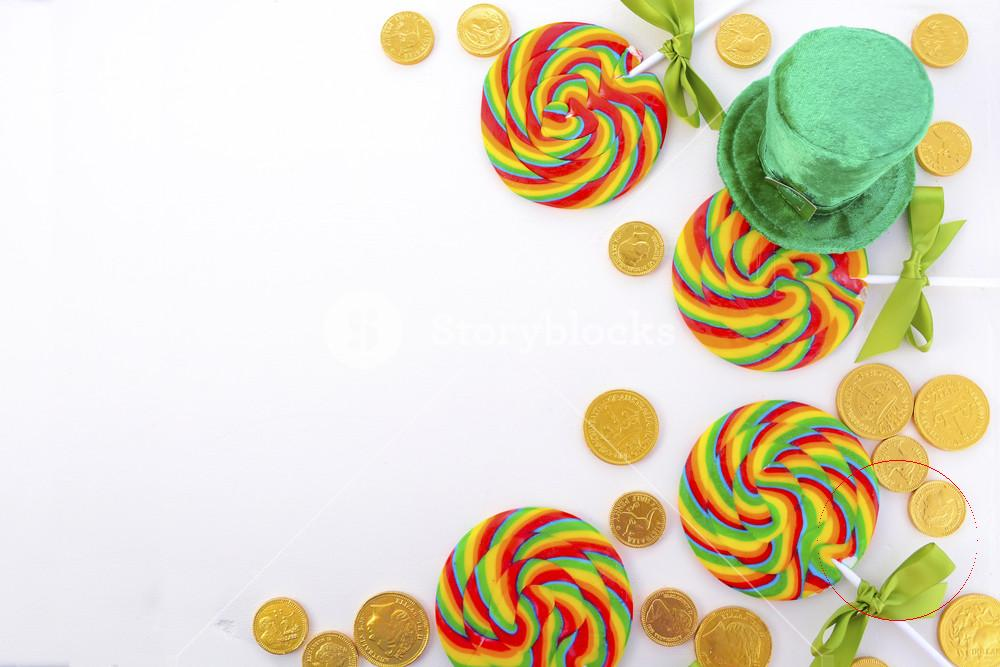
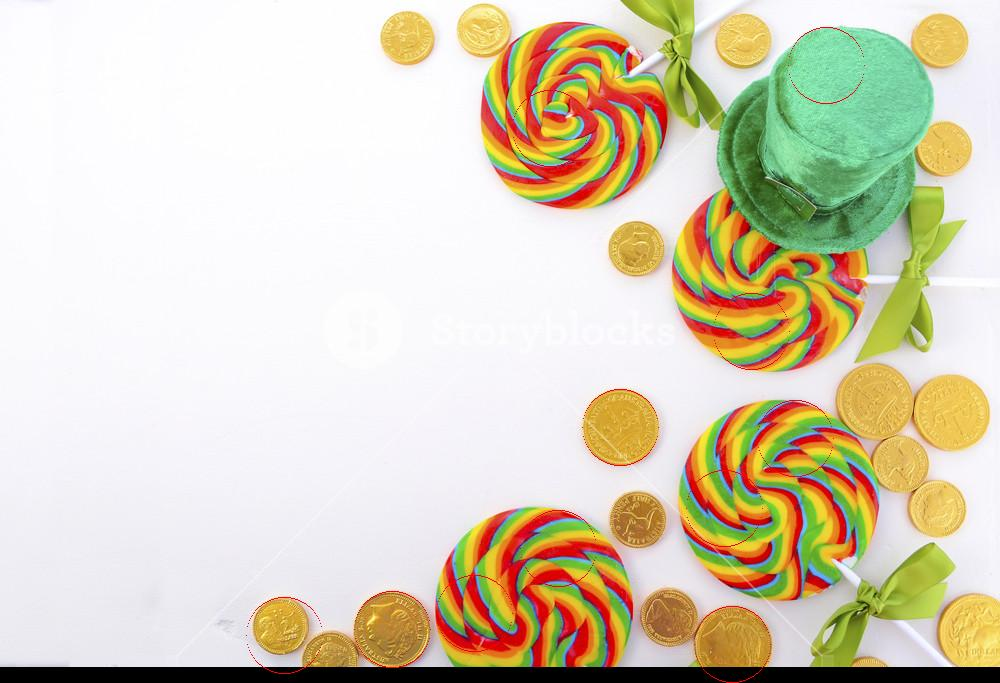
Idk what's I'm doing at this point ugh

diff --git a/detectCirclesHT.m b/detectCirclesHT.m
@@ -1,13 +1,13 @@
 function centers = detectCirclesHT(oImage, radius)
-threshPctg = .5;
+threshPctg = .4;
 imMat = imread(oImage);
 %get edges as matrix of 0's and 1's. Edges are 1's
 greyMat = im2gray(imMat);
 greyMat = imgaussfilt(greyMat, 4);
 edgesMat = edge(greyMat);
 edgesMat = uint8(edgesMat);
-subplot(1, 2, 1)
-imagesc(edgesMat);
+% subplot(1, 2, 1)
+% imagesc(edgesMat);
 %get coordinates of edge points
 [pointRows, pointColumns] = find(edgesMat);
 paddedPointRows = pointRows + (radius);
@@ -44,17 +44,21 @@ threshold = round(highestVote * threshPctg);
 %remove centers that likely pertain to textures. These will likely be very
 %close to other centers.
 centers = 0;
+centerRowsSize = size(centerRows);
+numToVet = centerRowsSize(1);
 for i = 1 : size(centerRows)
     c = [centerRows(i), centerColumns(i)];
+    centerVotes = votes(c(1), c(2));
     isOkay = true;
     stillVetting = true;
     vetI = 1;
-    while stillVetting & vetI <= size(centerRows)
+    while stillVetting & vetI <= numToVet
         if vetI == i
         else
             vetC = [centerRows(vetI), centerColumns(vetI)];
+            vetCVotes = votes(vetC(1), vetC(2));
             distance = sqrt((vetC(1) - c(1))^2 + (vetC(2) - c(2))^2);
-            if distance < (2 * radius)
+            if distance < (2 * radius) & centerVotes < vetCVotes
                 stillVetting = false;
                 isOkay = false;
             end
@@ -62,9 +66,10 @@ for i = 1 : size(centerRows)
         vetI = vetI + 1;
     end
     if isOkay
-        centers(end, 1:2) = c(1, 1:2);
+        centers(end + 1, 1:2) = c(1, 1:2);
     end
 end
+centers = centers(2:end, 1:2);
 centerRows = centers(:, 1);
 centerColumns = centers(:, 2);
 numCenters = size(centerRows);
